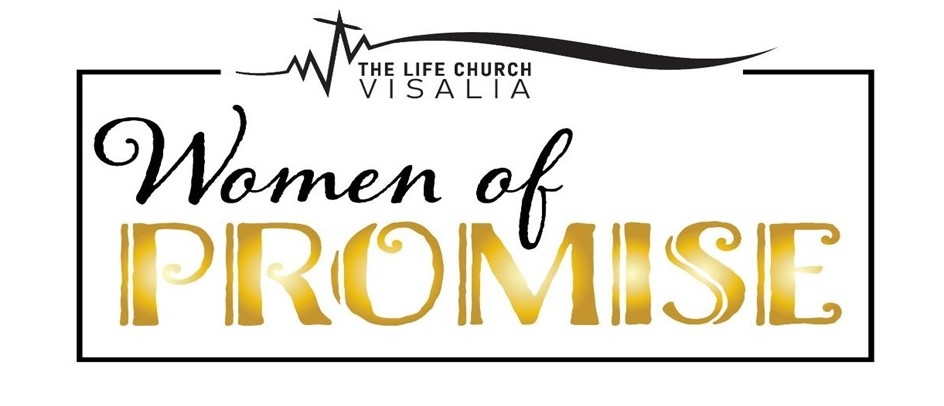
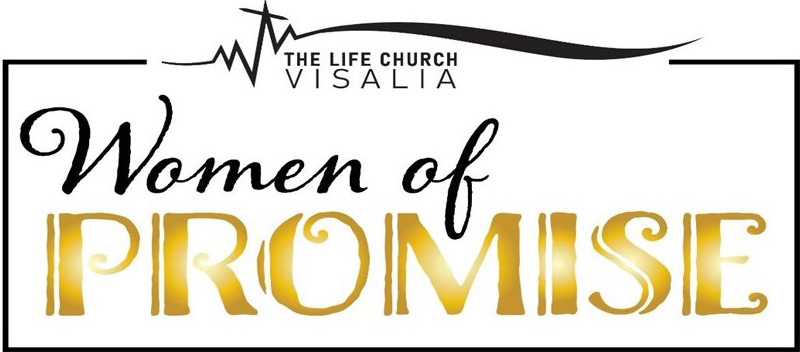
fix

diff --git a/ministries.html b/ministries.html
@@ -129,11 +129,12 @@
             </div>
             <div class="box pt-5">
                 <h2 class="display-4 text-primary pt-5"> Women's Ministry</h2>
-            </div>
+            </div>  <img class="img-fluid pb-3" src="img/WOP.JPG" alt="">
             <div class="box">
-                <!-- <img class="img-fluid pb-3" src="img/WOP.JPG" alt=""> -->
-              <img class="img-fluid"
-               src="img/women's ministrypic.jpg" class="img-fluid" alt="">
+                
+            
+              
+                <img class="img-fluid" src="img/women's ministrypic.jpg" class="img-fluid" alt="">
                   <div class="box text-center py-5">
                    <p class="fs-2 fw-normal">Our Women's group <b>Women of Promise</b>   is currently led by  Pastor Eva Perez and her entourage of help.</p> 
                    <p class="fs-3 fw-normal"> They have a zeal to serve God
